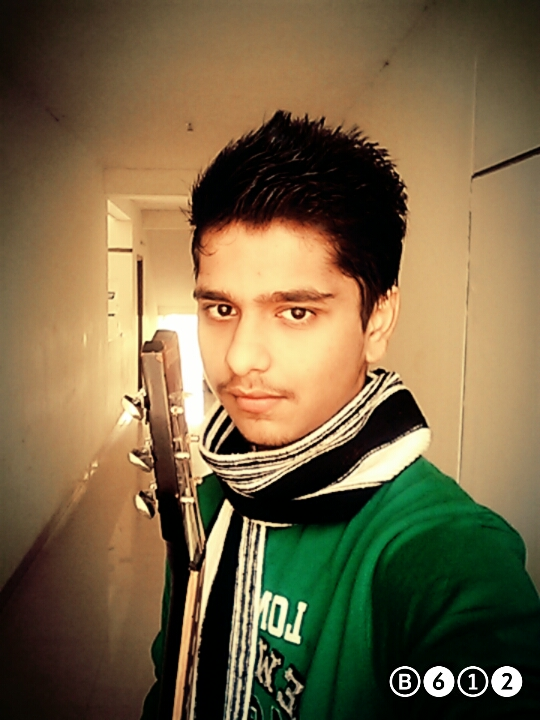
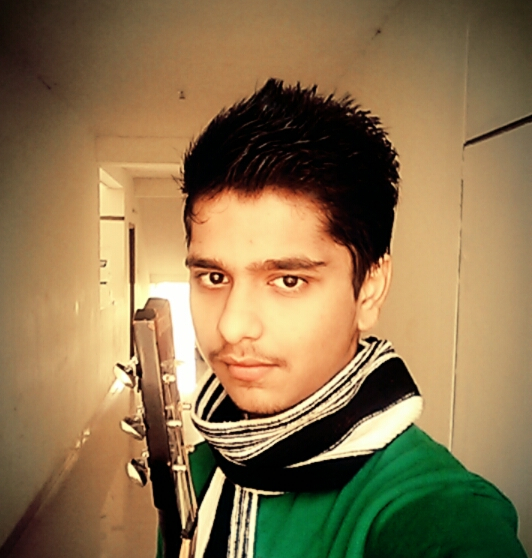
Developers section updated

diff --git a/css/main.css b/css/main.css
@@ -767,9 +767,9 @@ h2 {
 }
 .profile-img{
 
-  max-width: 100px;
-    border-radius: 20px;
-    max-height: 100px;
+ width: 100px;
+    border-radius: 80px;
+    height: 100px;
 
 }
 .col-div-4{
